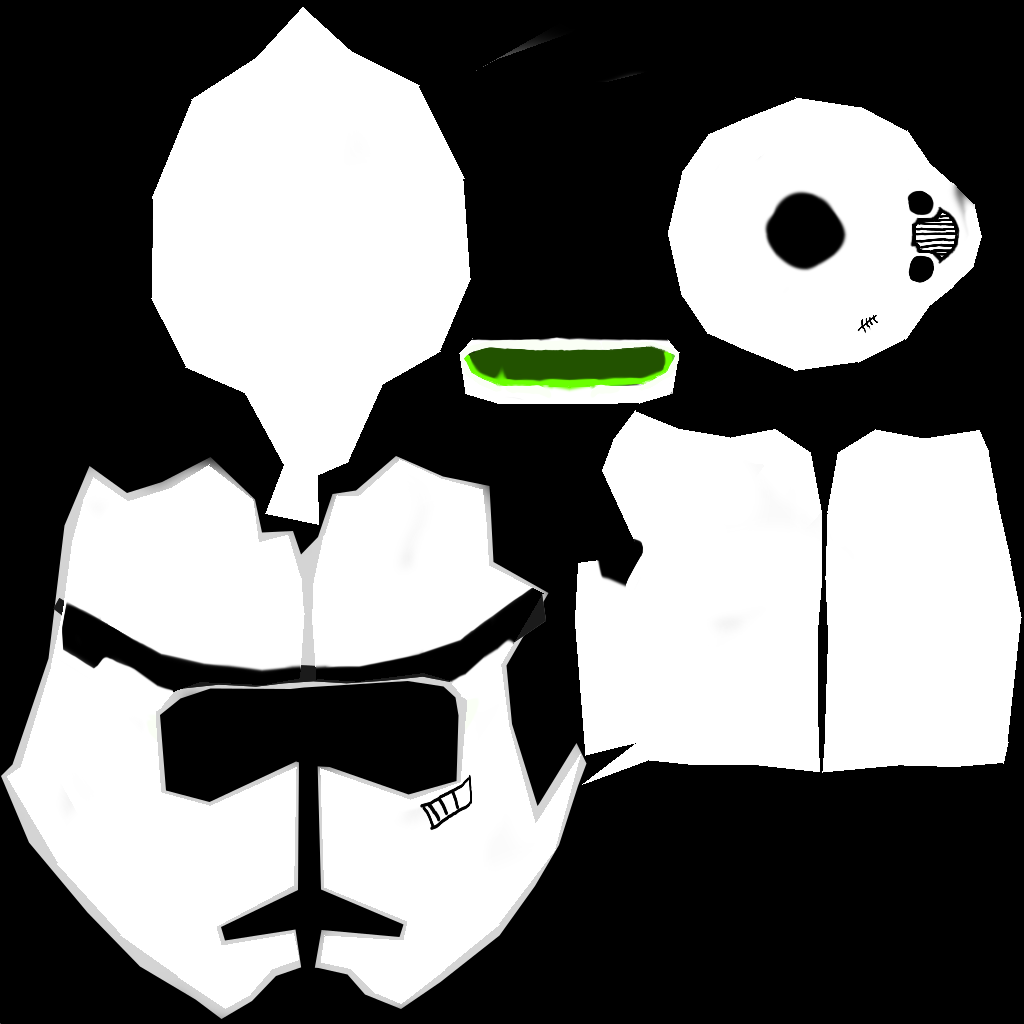
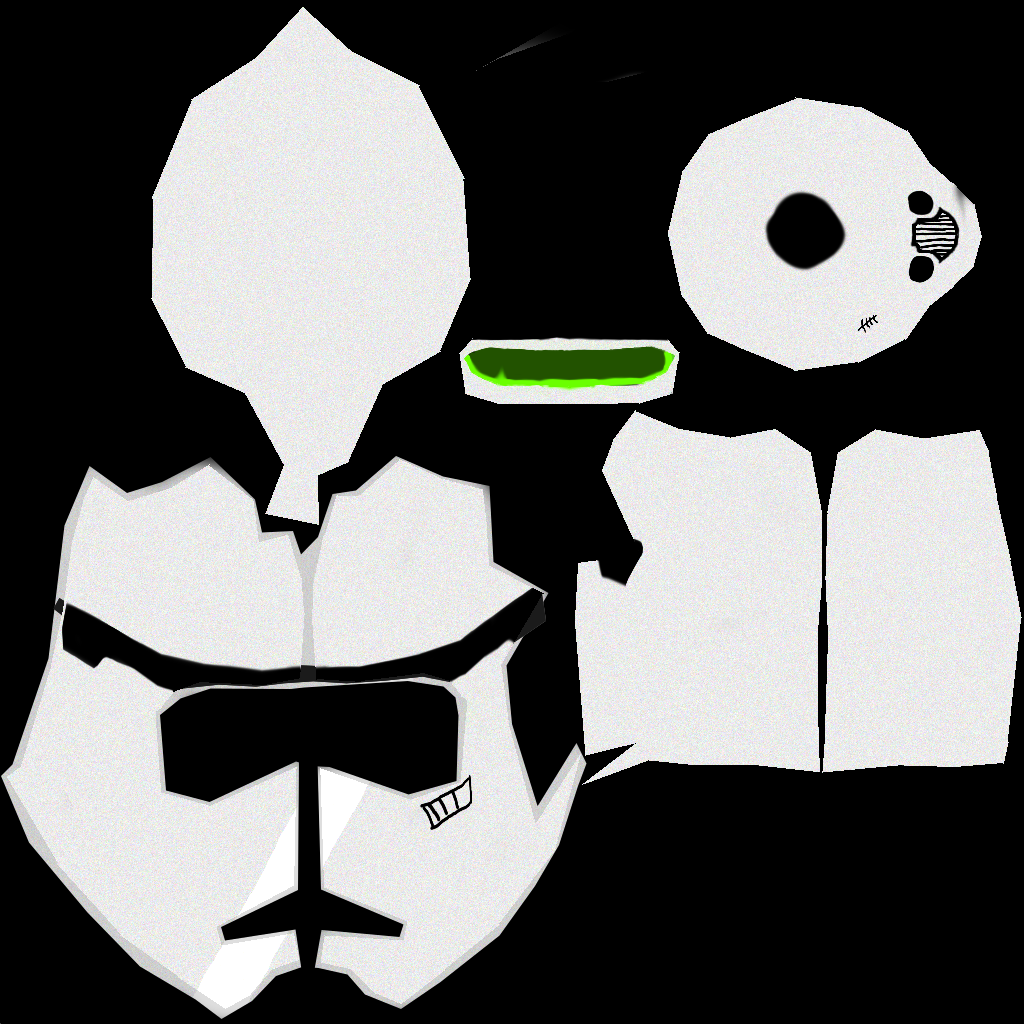
Started Bundle (modding) code Added VSCode code-workspace file Messed with the trooper helmet texture a bit
Attach to chrome is now second in the debug run list (tired of switching every session)

Changed region(s): [[0.0, 0.0, 1.0, 1.0], [0.6562, 0.0938, 0.9688, 0.375]]

diff --git a/res/scripts/Shared/BundleManager.js b/res/scripts/Shared/BundleManager.js
@@ -1,0 +1,73 @@
+
+const fs = require("fs");
+const path = require("path");
+
+class BundleManager {
+    constructor (game) {
+        this.loadedBundles = [];
+        this.game = game;
+    }
+
+    onBundleImport (err, bundleInstance) {
+        console.log("Successfully imported bundle", bundleInstance);
+        this.game.loadedBundles.push(bundleInstance);
+    }
+
+    importBundleFromJson (bundlesPath, bundleFolderResolved, bundleFolder, file) {
+        let json, bundleClass, bundleInstance;
+
+        try {
+            json = JSON.parse(
+                fs.readFileSync(
+                    path.join(bundleFolderResolved,file),
+                    "utf8"
+                )
+            );
+        } catch (err) {
+            console.log("Couldn't read package.json, skipping", err);
+        }
+
+        if (json.name) {
+            if (json.main) {
+                try {
+                    let mainFile = path.resolve(path.join(bundlesPath, bundleFolder, json.main));
+
+                    bundleClass = require(mainFile);
+
+                    bundleInstance = new bundleClass(this.game, json.name, json.displayName);
+
+                    this.loadedBundles.push(bundleInstance);
+                } catch(err) {
+                    console.log("Couldn't load the bundle", err);
+                }
+            }
+        }
+    }
+
+    importBundles (bundlesPath, callback) {
+        let resolvedBundlePath = path.resolve(bundlesPath);
+        //Try to get the dir with all the bundles in it
+        fs.readdirSync(resolvedBundlePath).forEach(bundleFolder => {            
+            //Make sure bundleFolder is actually a folder, not a file
+
+            let stats;
+            let bundleFolderResolved = path.join(resolvedBundlePath, bundleFolder);
+            try {
+                stats = fs.statSync(bundleFolderResolved);
+                if (stats.isDirectory()) {
+                    fs.readdirSync(bundleFolderResolved).forEach(file => {
+                        if (file == "package.json") {
+                            this.importBundleFromJson(bundlesPath, bundleFolderResolved, bundleFolder, file);
+                        }
+                    });
+                }
+            } catch (err) {
+                console.log("Couldn't read", bundleFolder, "skipping", err);
+            }
+            
+            callback(this.loadedBundles);
+        });
+    }
+}
+
+module.exports = BundleManager;

diff --git a/res/scripts/Client/GameClient.js b/res/scripts/Client/GameClient.js
@@ -11,6 +11,7 @@ const DirectionalLight = THREE.DirectionalLight;
 
 const LogicClock = require("../Shared/LogicClock");
 const WorldAndPhysics = require("./WorldAndPhysics");
+const BundleManager = require("../Shared/BundleManager");
 
 function elem (id) {
     return document.getElementById(id);
@@ -51,7 +52,7 @@ class GameClient {
                 ( object )=> {
                     this.scene.add( object );
                     this.trooper_helmet = object;
-                    this.trooper_helmet.scale.setX(4).setY(4).setZ(4);
+                    this.trooper_helmet.scale.setX(2).setY(2).setZ(2);
                 },
                 function ( xhr ) {
                     //console.log( ( xhr.loaded / xhr.total * 100 ) + '% loaded' );
@@ -71,6 +72,16 @@ class GameClient {
         this.clock.start();
 
         this.worldAndPhysics = new WorldAndPhysics();
+
+        this.loadedBundles = undefined;
+        this.bundleManager = new BundleManager(this);
+
+        this.bundleManager.importBundles("./bundles", (bundles)=>{
+            for (let i=0; i<bundles.length; i++) {
+                bundles[i].onReady();
+                //console.log(bundles[i]);
+            }
+        });
 
         window.addEventListener("resize", ()=>this.onResize());
     }

diff --git a/res/scripts/Shared/Bundle.js b/res/scripts/Shared/Bundle.js
@@ -1,0 +1,29 @@
+/* This is the base class for any/every mod to the game.
+ * I'm going with bundle because I want to detatch from common
+ * thinking about how the game works in comparison to the original.
+ * 
+ * This game is entirely built out of mods, besides the base framework.
+ * Anything this game is shipped with is also reproducable within your own mod.
+ * You get all the necessary tools to build the game as developers do.
+*/
+
+class Bundle {
+    constructor (game, name, displayName) {
+        if (!name || name == "") throw "Bundle constructor first argument requires a string for the name!";
+        this.game = game;
+        this.name = name;
+        this.sessionUniqueId = 0;
+        this.displayName = (displayName || name);
+    }
+
+    onReady () {
+        
+    }
+
+    onUpdate () {
+
+    }
+
+}
+
+module.exports = Bundle;

diff --git a/bundles/DefaultPlayer/main.js b/bundles/DefaultPlayer/main.js
@@ -1,0 +1,14 @@
+
+let Bundle = require("../../res/scripts/Shared/Bundle");
+
+class DefaultPlayer extends Bundle {
+    constructor (game, name, displayName) {
+        super(game, name, displayName);
+    }
+
+    onReady () {
+        console.log("Hello from DefaultPlayer bundle! I've loaded!");
+    }
+}
+
+module.exports = DefaultPlayer;
